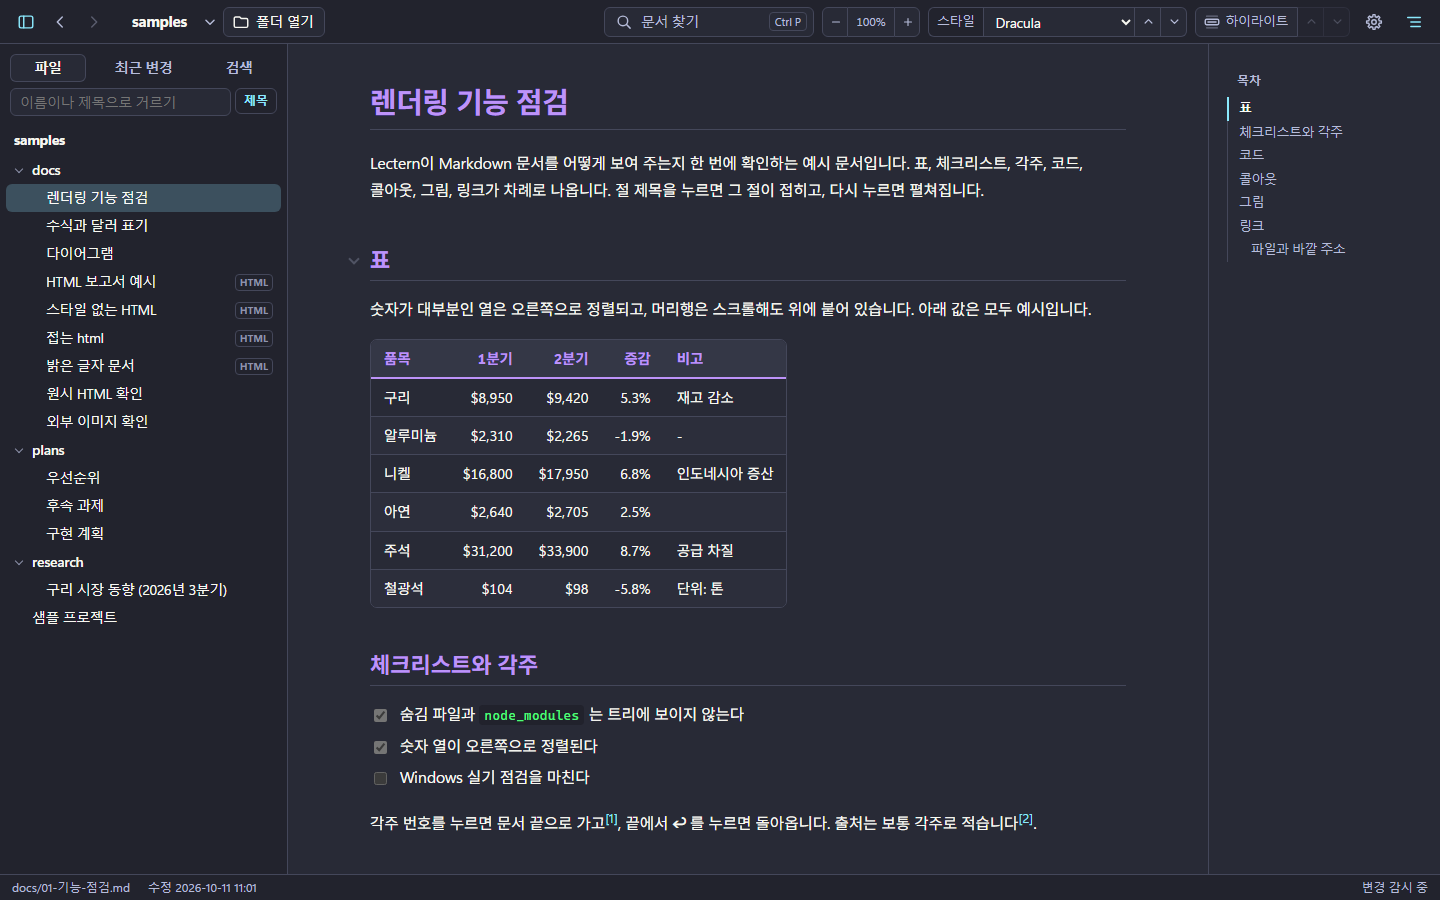
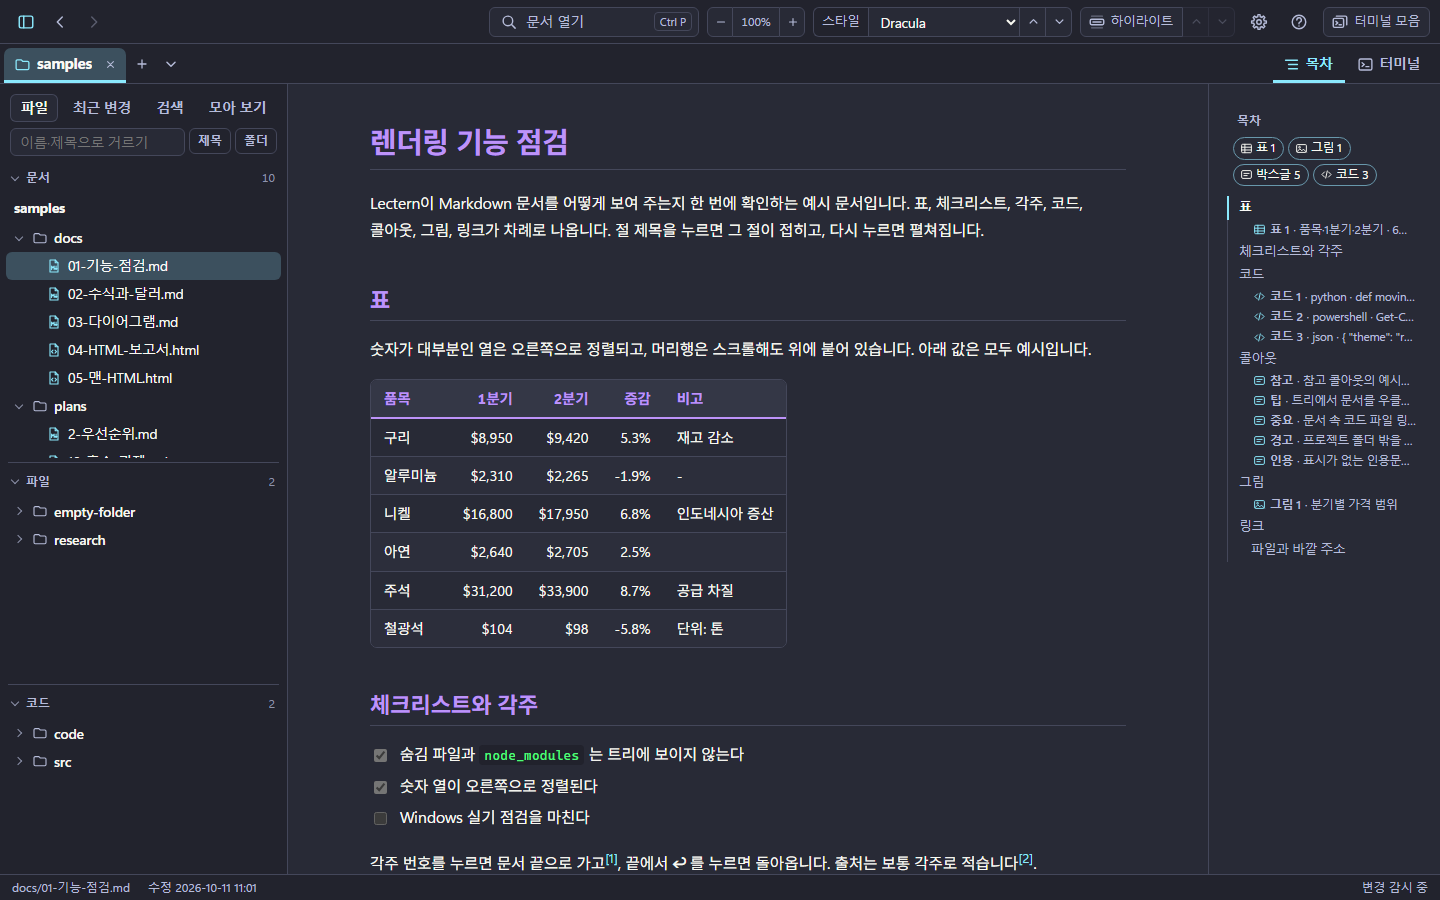
0.18.0: 프로젝트 탭·코드 읽기·모아 보기·터미널·English 화면 안내와 새 화면, xterm.js 라이선스

diff --git a/README.md b/README.md
@@ -5,6 +5,8 @@ Claude Code·Claude 가 프로젝트 폴더에 만든 문서(Markdown·HTML)를 
 
 ![문서 화면](images/doc.png)
 
+> **English**: Lectern is a Windows viewer for skimming and reading the Markdown and HTML documents that Claude Code writes into a project folder. Its interface is available in English — it follows the Windows display language, or choose **Settings (Ctrl+,) → Language → English**. Press **F1** in the app for the English user guide. Download the installer from [Releases](https://github.com/samiblog/lectern-download/releases/latest).
+
 ## 내려받기
 
 **[최신 판 내려받기 (Releases)](https://github.com/samiblog/lectern-download/releases/latest)** — `Lectern-버전-setup.exe`
@@ -18,22 +20,34 @@ Claude Code·Claude 가 프로젝트 폴더에 만든 문서(Markdown·HTML)를 
 - 필요한 것: Windows 10/11 (64비트), Microsoft Edge WebView2 런타임 — Windows 11 에는 기본으로 있고, 없으면 설치 프로그램이 알려 줍니다.
 - 새 판은 같은 방법으로 덮어 설치하면 됩니다. 설정(최근 폴더, 스타일)은 그대로입니다.
 - 제거: Windows 설정 → 앱 → 설치된 앱 → Lectern. 설정 파일(`%APPDATA%\Lectern`)은 남깁니다.
+- 앱 안에서 **F1** 을 누르면 사용설명서가, 툴바의 **?** 버튼(Ctrl+/)을 누르면 단축키 표가 열립니다.
 
 ## 할 수 있는 것
 
-- 폴더를 열면 파일명 대신 **문서 제목으로 보이는 트리**와 **폴더 개요**(방금 바뀐 문서, 문서별 요약)
-- 표·코드·수식·Mermaid 다이어그램·콜아웃·각주, Claude 가 만든 **HTML 보고서**(스크립트는 막고 문서만)
+- **프로젝트 탭**: 폴더마다 탭 하나. 여러 프로젝트를 한 창에서 오가며 보고, 탭마다 읽던 문서와 위치가 그대로 남습니다
+- 사이드바의 **문서·파일·코드** 묶음, 열기 전에 바뀐 문서에 점, **폴더 개요**(방금 바뀐 문서, 문서별 요약)
+- 표·코드·수식·Mermaid 다이어그램·박스글(콜아웃)·각주, Claude 가 만든 **HTML 보고서**(스크립트는 막고 문서만)
 - 문서가 바뀌면 1초 안에 다시 그리고 **바뀐 곳을 표시**
-- **창 나누기**: 문서를 최대 3개까지 나란히 (Ctrl+클릭 또는 우클릭 → 오른쪽 창에 열기). 목차는 선택된 창을 따라감
-- 전체 검색(Ctrl+Shift+F), 문서 안 찾기(Ctrl+F), 빠른 열기(Ctrl+P), 목차, 제목을 눌러 절 접기
+- **코드 읽기 화면**: 코드 파일을 줄 번호·언어 색으로, 오른쪽 목차에 클래스·함수 (실행하거나 고치지 않음)
+- **모아 보기**: 프로젝트의 표·그림·박스글·다이어그램·코드·수식을 종류마다 문서별로 모아 보고, 누르면 그 자리로
+- 목차에 절마다 표·그림 등 구성 요소, 제목을 눌러 절 접기
+- **전체 검색**(문서·코드, Ctrl+Shift+F), 문서 안 찾기(Ctrl+F), **빠른 열기**(문서·코드, Ctrl+P)
+- **오른쪽 터미널**(Ctrl+\`): 프로젝트 폴더에서 PowerShell 을 열어 문서를 보며 Claude Code 를 돌리고, **터미널 모음**으로 여러 프로젝트의 터미널을 한 화면에
 - **스타일 24종**(용도별·분위기별·밝기별로 묶어 보기), **글자 크기** 조절, 한 장만 또렷하게 보는 **장 하이라이트**
 - 본문 우클릭: 원문·표·그림 복사, Claude Code 프롬프트에 붙여 넣을 위치(`@docs/보고서.md 40~52행`) 복사
+- **한국어·English** 화면 (설정의 '언어 · Language', 기본은 Windows 표시 언어), 앱 안 **사용설명서**(F1)
 
-![창 나누기](images/split.png)
+| 코드 읽기 화면 | 모아 보기 |
+|---|---|
+| ![코드 읽기 화면](images/code.png) | ![모아 보기](images/parts.png) |
 
 | 장 하이라이트 | 어두운 스타일 (Dracula) |
 |---|---|
 | ![장 하이라이트](images/spotlight.png) | ![어두운 스타일](images/dark.png) |
+
+| English 화면 (사용설명서) |
+|---|
+| ![English](images/en.png) |
 
 ## 사용 조건
 
@@ -43,5 +57,5 @@ Claude Code·Claude 가 프로젝트 폴더에 만든 문서(Markdown·HTML)를 
 
 ## 포함된 오픈소스
 
-설치 파일에는 Python, pywebview, Flask, watchdog, markdown-it, Mermaid, KaTeX, highlight.js, DOMPurify 등 오픈소스 소프트웨어가 들어 있습니다.
+설치 파일에는 Python, pywebview, Flask, watchdog, markdown-it, Mermaid, KaTeX, highlight.js, DOMPurify, xterm.js 등 오픈소스 소프트웨어가 들어 있습니다.
 각각의 저작권 표시와 라이선스는 [THIRD-PARTY-NOTICES.md](THIRD-PARTY-NOTICES.md) 에 있습니다.
